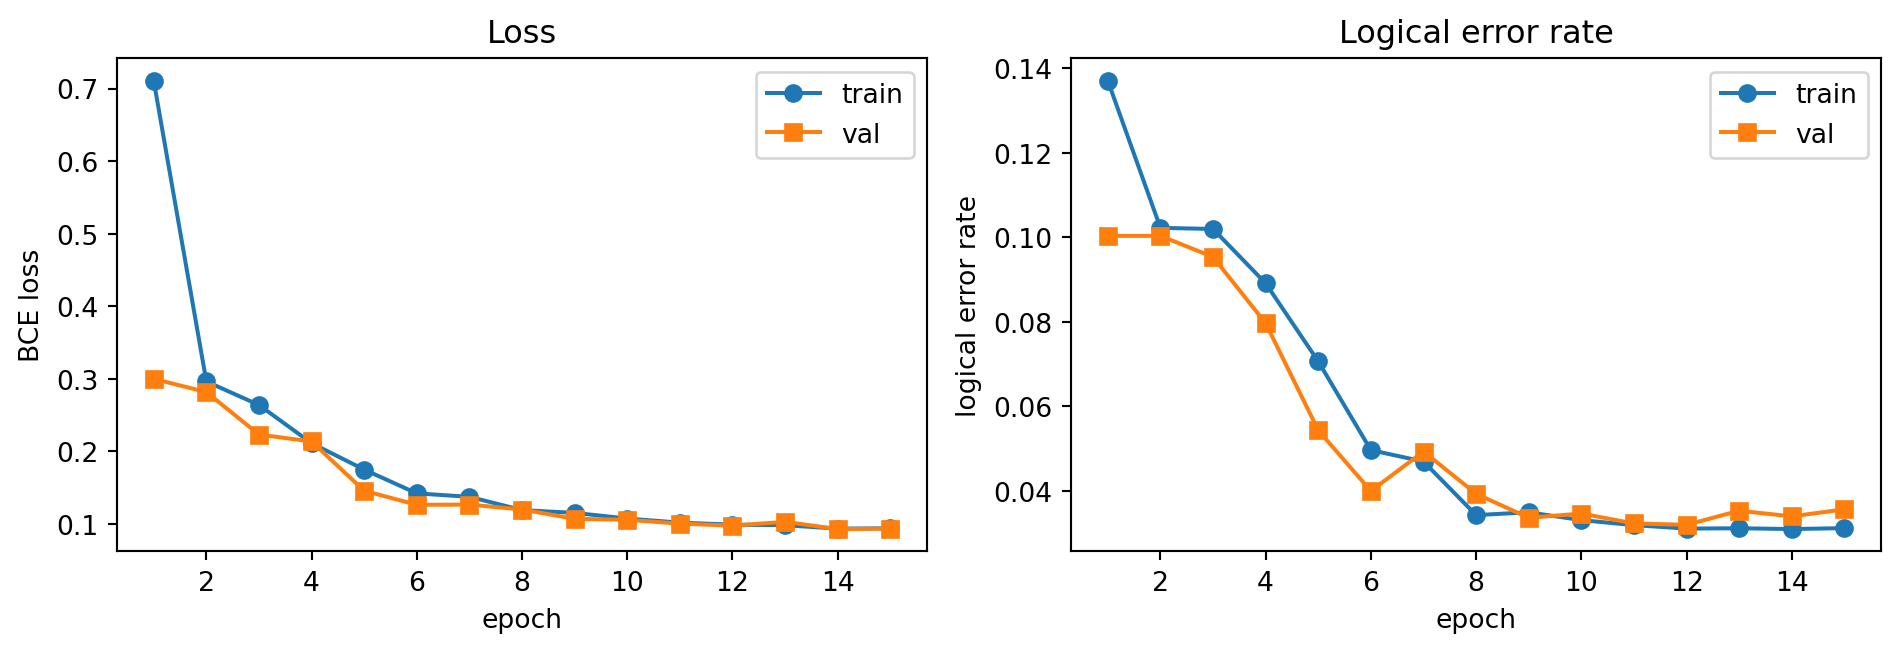
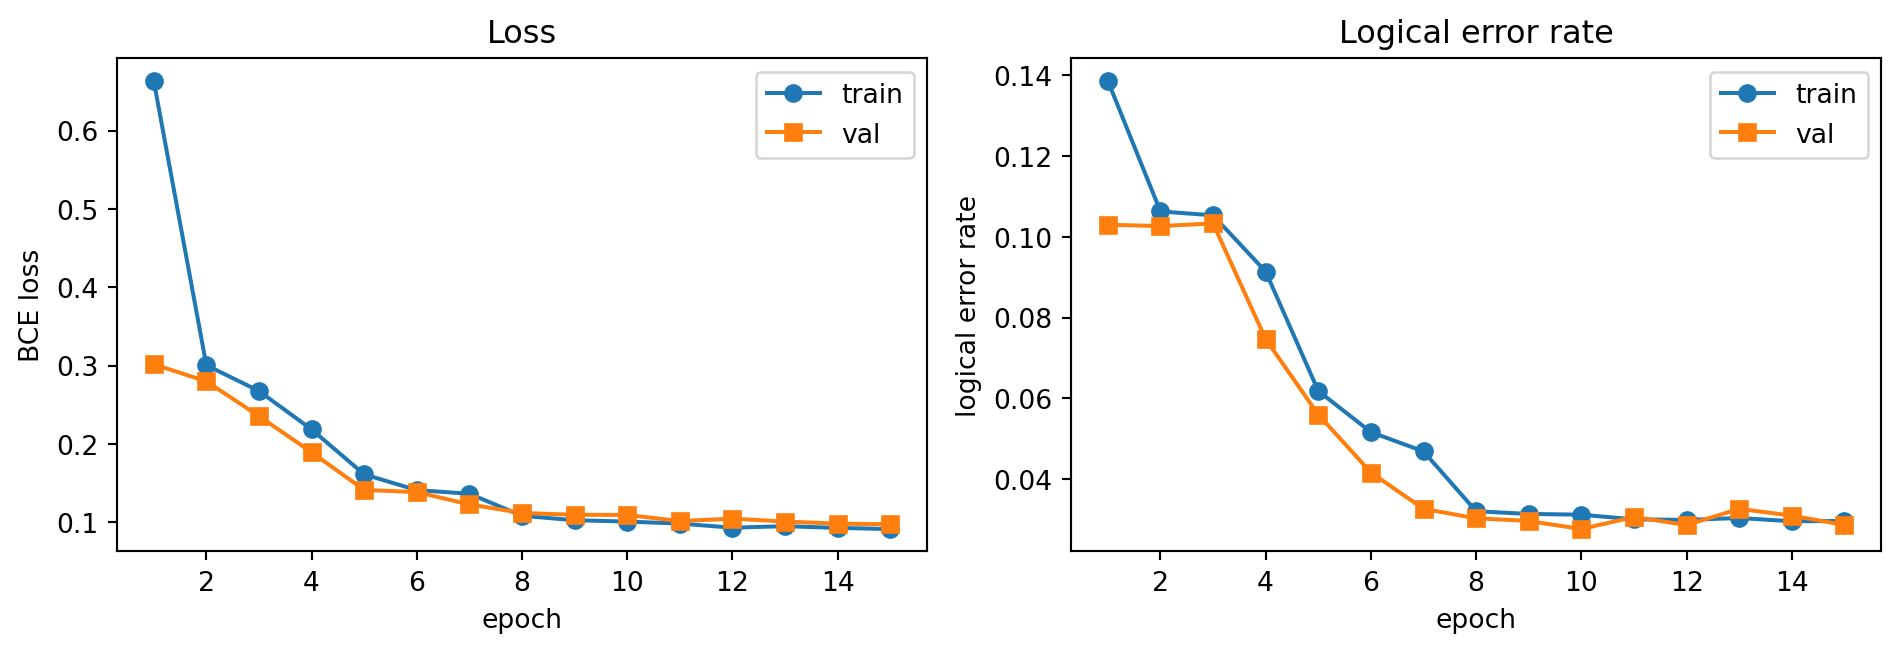
Expand BCE acronym on first mention in ROQET week 3 post
Korean readers get the full term once in section 4-1; later mentions stay terse.

diff --git a/docs/posts/project-roqet-03-detector-graph-gnn/index.html b/docs/posts/project-roqet-03-detector-graph-gnn/index.html
@@ -719,9 +719,9 @@ edge weight 분포 : min=3.96, median=5.06, max=6.62</code></pre>
 <span id="cb8-18"><a href="#cb8-18" aria-hidden="true" tabindex="-1"></a><span class="bu">print</span>(<span class="ss">f"Data 객체 생성   : </span><span class="sc">{</span><span class="bu">len</span>(dataset)<span class="sc">:,}</span><span class="ss">개 / </span><span class="sc">{</span>build_s<span class="sc">:.2f}</span><span class="ss"> s"</span>)</span>
 <span id="cb8-19"><a href="#cb8-19" aria-hidden="true" tabindex="-1"></a><span class="bu">print</span>(<span class="ss">f"raw 논리 오류율  : </span><span class="sc">{</span>observable_flips<span class="sc">.</span>mean()<span class="sc">:.4%}</span><span class="ss">"</span>)</span></code><button title="Copy to Clipboard" class="code-copy-button"><i class="bi"></i></button></pre></div>
 <div class="cell-output cell-output-stdout">
-<pre><code>Stim 샘플링      : 30,000샷 / 2.0 ms
-Data 객체 생성   : 30,000개 / 1.98 s
-raw 논리 오류율  : 10.1900%</code></pre>
+<pre><code>Stim 샘플링      : 30,000샷 / 4.0 ms
+Data 객체 생성   : 30,000개 / 1.91 s
+raw 논리 오류율  : 10.5133%</code></pre>
 </div>
 </div>
 <p>PyG의 <code>DataLoader</code>는 내부적으로 배치 안의 그래프들을 하나의 큰 disjoint 그래프로 묶어 주므로, 우리는 단일 그래프인 것처럼 forward만 짜면 됩니다.</p>
@@ -801,7 +801,7 @@ raw 논리 오류율  : 10.1900%</code></pre>
 <pre><code>device=cpu, train=27,000, val=3,000</code></pre>
 </div>
 </div>
-<p>분류 문제이므로 손실은 <strong>BCE with logits</strong>가 자연스럽습니다. 2주차에 측정했던 raw 논리 오류율이 수 %로 <em>대략 균형이 맞는</em> 편이라 <code>pos_weight</code> 없이 시작해도 크게 문제 되지 않습니다. 오류율이 1% 이하로 떨어지는 설정이라면 이야기가 달라져서 가중치를 꼭 넣어야 합니다.</p>
+<p>분류 문제이므로 손실은 <strong>BCE(Binary Cross-Entropy, 이진 교차 엔트로피) with logits</strong>가 자연스럽습니다. 2주차에 측정했던 raw 논리 오류율이 수 %로 <em>대략 균형이 맞는</em> 편이라 <code>pos_weight</code> 없이 시작해도 크게 문제 되지 않습니다. 오류율이 1% 이하로 떨어지는 설정이라면 이야기가 달라져서 가중치를 꼭 넣어야 합니다.</p>
 </section>
 <section id="학습-루프" class="level3">
 <h3 class="anchored" data-anchor-id="학습-루프">4-2. 학습 루프</h3>
@@ -836,12 +836,12 @@ raw 논리 오류율  : 10.1900%</code></pre>
 <span id="cb14-28"><a href="#cb14-28" aria-hidden="true" tabindex="-1"></a>        <span class="bu">print</span>(<span class="ss">f"epoch </span><span class="sc">{</span>epoch<span class="sc">:02d}</span><span class="ss"> | train loss </span><span class="sc">{</span>tr_loss<span class="sc">:.4f}</span><span class="ss"> / LER </span><span class="sc">{</span>tr_ler<span class="sc">:.4%}</span><span class="ss">"</span></span>
 <span id="cb14-29"><a href="#cb14-29" aria-hidden="true" tabindex="-1"></a>              <span class="ss">f" | val loss </span><span class="sc">{</span>va_loss<span class="sc">:.4f}</span><span class="ss"> / LER </span><span class="sc">{</span>va_ler<span class="sc">:.4%}</span><span class="ss">"</span>)</span></code><button title="Copy to Clipboard" class="code-copy-button"><i class="bi"></i></button></pre></div>
 <div class="cell-output cell-output-stdout">
-<pre><code>epoch 01 | train loss 0.7108 / LER 13.7000% | val loss 0.2999 / LER 10.0333%
-epoch 03 | train loss 0.2639 / LER 10.1963% | val loss 0.2232 / LER 9.5333%
-epoch 06 | train loss 0.1421 / LER 4.9667% | val loss 0.1264 / LER 4.0000%
-epoch 09 | train loss 0.1152 / LER 3.4963% | val loss 0.1069 / LER 3.3667%
-epoch 12 | train loss 0.0990 / LER 3.1111% | val loss 0.0976 / LER 3.2000%
-epoch 15 | train loss 0.0939 / LER 3.1222% | val loss 0.0936 / LER 3.5667%</code></pre>
+<pre><code>epoch 01 | train loss 0.6634 / LER 13.8630% | val loss 0.3016 / LER 10.3000%
+epoch 03 | train loss 0.2676 / LER 10.5333% | val loss 0.2356 / LER 10.3333%
+epoch 06 | train loss 0.1411 / LER 5.1667% | val loss 0.1386 / LER 4.1667%
+epoch 09 | train loss 0.1027 / LER 3.1407% | val loss 0.1097 / LER 2.9667%
+epoch 12 | train loss 0.0932 / LER 2.9926% | val loss 0.1047 / LER 2.8667%
+epoch 15 | train loss 0.0914 / LER 2.9667% | val loss 0.0975 / LER 2.8667%</code></pre>
 </div>
 </div>
 </section>
@@ -901,9 +901,9 @@ epoch 15 | train loss 0.0939 / LER 3.1222% | val loss 0.0936 / LER 3.5667%</code
 <span id="cb17-10"><a href="#cb17-10" aria-hidden="true" tabindex="-1"></a><span class="bu">print</span>(<span class="ss">f"MWPM (PyMatching)        : </span><span class="sc">{</span>mwpm_ler<span class="sc">:.4%}</span><span class="ss">"</span>)</span>
 <span id="cb17-11"><a href="#cb17-11" aria-hidden="true" tabindex="-1"></a><span class="bu">print</span>(<span class="ss">f"TinyGraphDecoder (val)   : </span><span class="sc">{</span>gnn_ler<span class="sc">:.4%}</span><span class="ss">"</span>)</span></code><button title="Copy to Clipboard" class="code-copy-button"><i class="bi"></i></button></pre></div>
 <div class="cell-output cell-output-stdout">
-<pre><code>raw (디코더 없음)        : 10.1900%
-MWPM (PyMatching)        : 1.6533%
-TinyGraphDecoder (val)   : 3.5667%</code></pre>
+<pre><code>raw (디코더 없음)        : 10.5133%
+MWPM (PyMatching)        : 1.7500%
+TinyGraphDecoder (val)   : 2.8667%</code></pre>
 </div>
 </div>
 <div id="cell-comparison-table" class="cell" data-execution_count="11">
@@ -924,17 +924,17 @@ TinyGraphDecoder (val)   : 3.5667%</code></pre>
 <tbody>
 <tr class="odd">
 <td style="text-align: left;">디코더 없음 (raw)</td>
-<td style="text-align: left;">10.19%</td>
+<td style="text-align: left;">10.51%</td>
 <td style="text-align: left;">신드롬을 그냥 무시한 경우</td>
 </tr>
 <tr class="even">
 <td style="text-align: left;">MWPM (PyMatching)</td>
-<td style="text-align: left;">1.65%</td>
+<td style="text-align: left;">1.75%</td>
 <td style="text-align: left;">그래프-알고리즘 baseline</td>
 </tr>
 <tr class="odd">
 <td style="text-align: left;">TinyGraphDecoder (본 포스트)</td>
-<td style="text-align: left;">3.57%</td>
+<td style="text-align: left;">2.87%</td>
 <td style="text-align: left;">15 epoch, 엣지 피처 미사용</td>
 </tr>
 </tbody>
